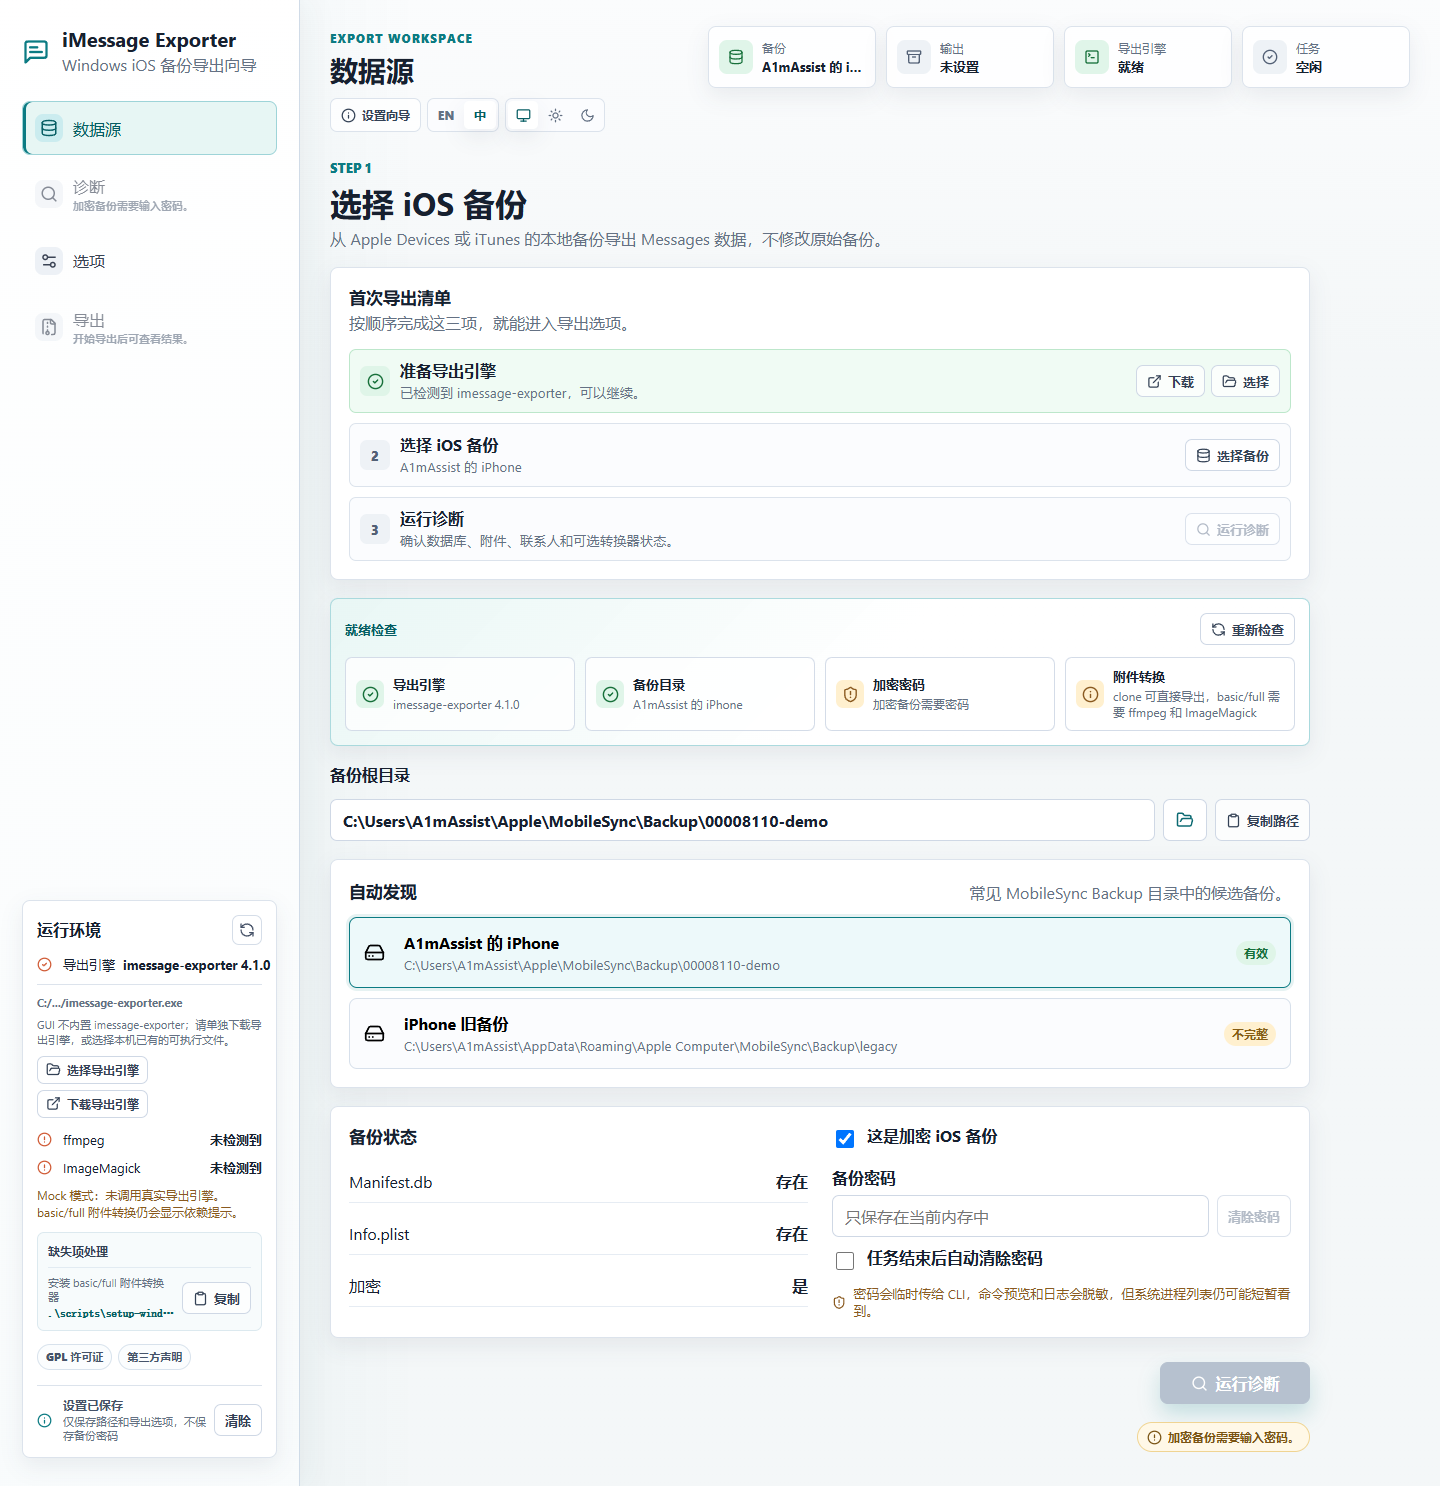
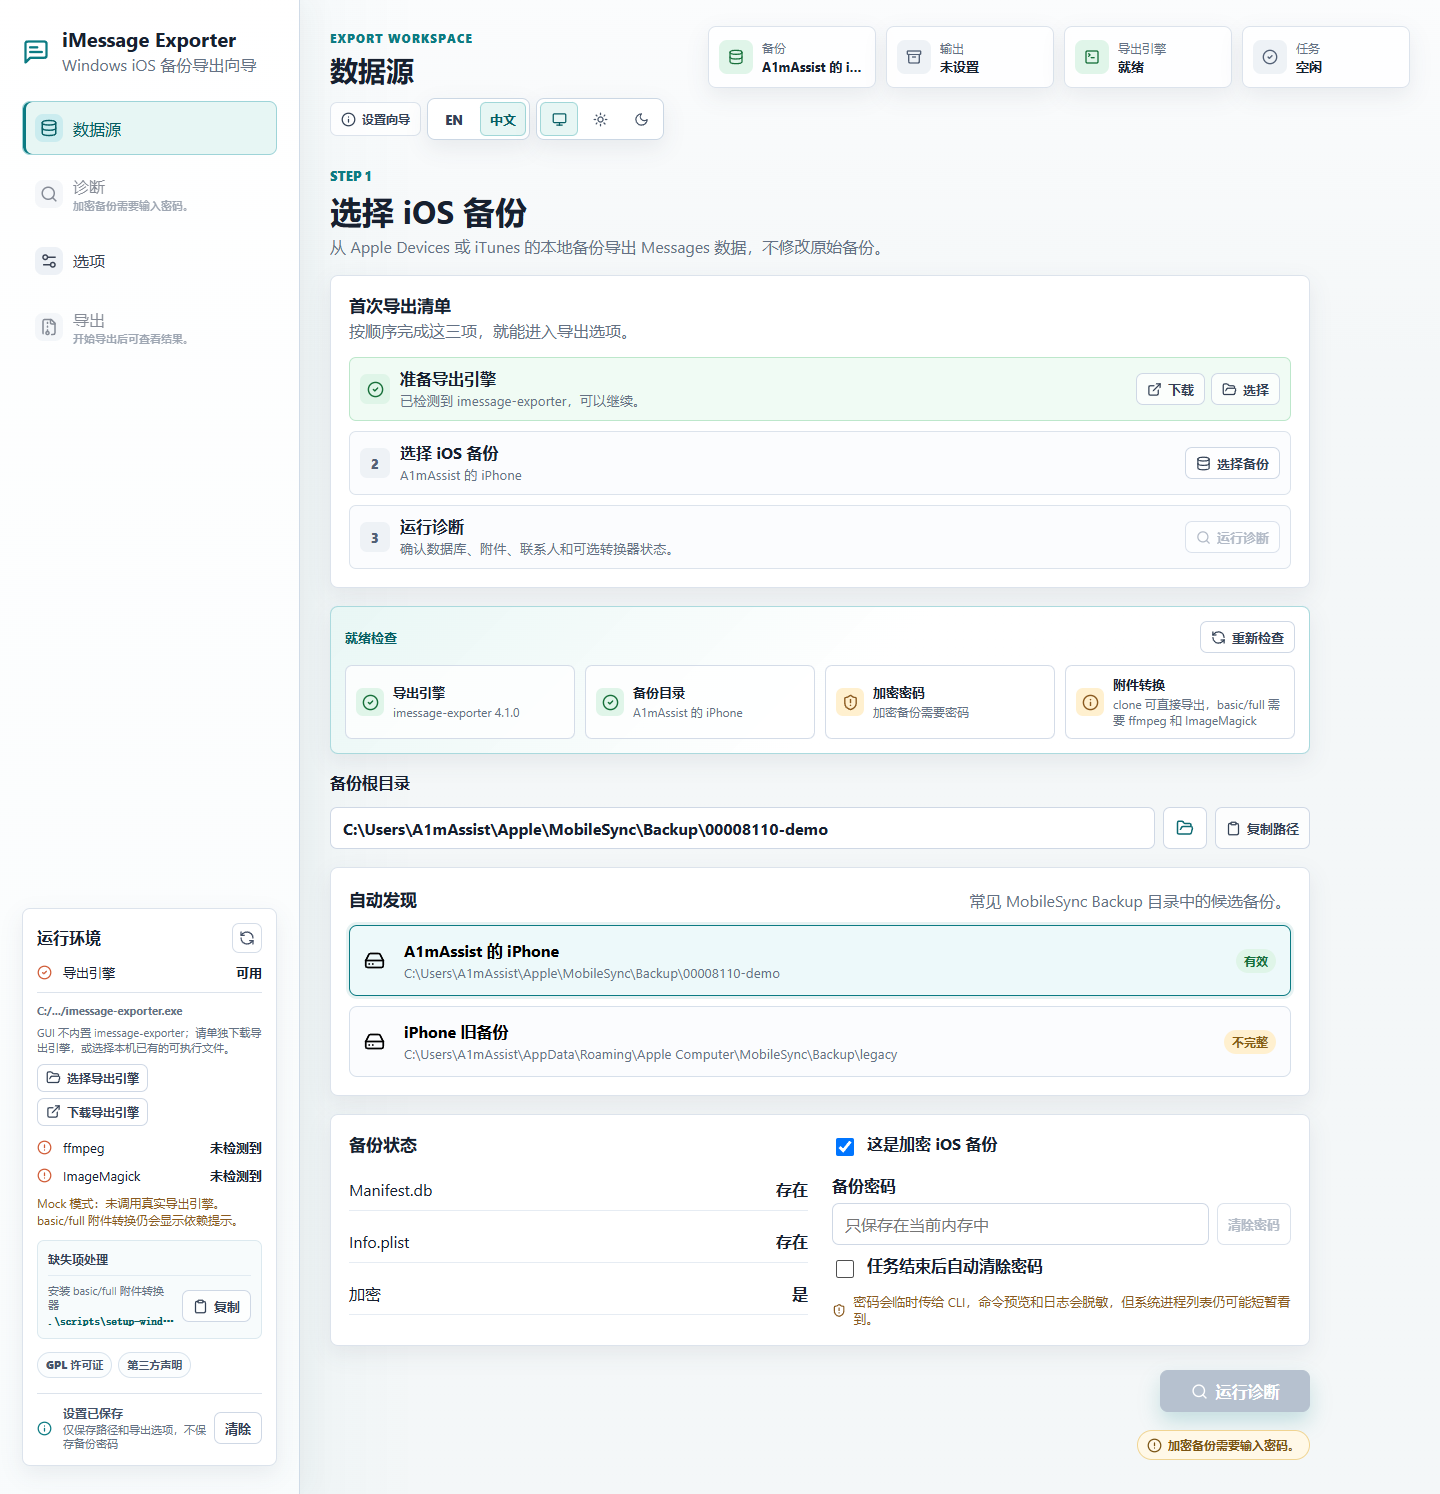
Polish English localization controls

diff --git a/src/i18n.ts b/src/i18n.ts
@@ -49,6 +49,19 @@ const en: Record<string, string> = {
   "未找到": "Not found",
   "可用": "Available",
   "未检测到": "Not detected",
+  "环境": "Environment",
+  "路径": "Path",
+  "名称": "Name",
+  "密码状态": "Password Status",
+  "未确认或缺失": "Not confirmed or missing",
+  "未输入": "Not entered",
+  "不适用": "Not applicable",
+  "已输入，未写入报告": "Entered, omitted from report",
+  "暂无日志": "No logs yet",
+  "iMessage Exporter GUI 诊断报告": "iMessage Exporter GUI Diagnostic Report",
+  "生成时间": "Generated At",
+  "脱敏命令": "Redacted Command",
+  "脱敏日志": "Redacted Logs",
   "Mock 模式：未调用真实导出引擎。basic/full 附件转换仍会显示依赖提示。": "Mock mode: no real export engine is called. basic/full attachment conversion still shows dependency hints.",
   "Mock 模式：模拟导出引擎缺失，诊断和导出会被禁用。": "Mock mode: simulating a missing export engine, so diagnostics and export are disabled.",
   "仅保存路径和导出选项，不保存备份密码": "Only paths and export options are saved. Backup passwords are never saved.",
@@ -140,6 +153,7 @@ const en: Record<string, string> = {
   "basic/full 可用": "basic/full available",
   "clone 可直接导出，basic/full 需要 ffmpeg 和 ImageMagick": "clone can export directly; basic/full require ffmpeg and ImageMagick",
   "启动就绪检查": "Startup readiness checks",
+  "首次导出路线": "First export path",
   "就绪检查": "Readiness Checks",
   "重新检查": "Check Again",
   "诊断备份": "Diagnose Backup",
@@ -153,6 +167,8 @@ const en: Record<string, string> = {
   "诊断结果": "Diagnostic Result",
   "已通过": "Passed",
   "需处理": "Needs action",
+  "联系人解析可用": "Contact parsing is available",
+  "缺少 ffmpeg / ImageMagick": "Missing ffmpeg / ImageMagick",
   "诊断已完成，但仍有项目需要处理。": "Diagnostics finished, but some items still need attention.",
   "运行诊断后会汇总检查结果。": "Run diagnostics to summarize the checks.",
   "完整": "Complete",
@@ -172,11 +188,23 @@ const en: Record<string, string> = {
   "选择输出格式、附件复制策略、日期范围和会话筛选。": "Choose output format, attachment copy strategy, date range, and conversation filters.",
   "预设": "Presets",
   "只调整格式、附件策略和打印模式，不改备份路径、输出目录或密码。": "Only changes format, attachment strategy, and print mode. Backup path, output folder, and password are kept.",
+  "快速归档": "Quick Archive",
+  "HTML + clone，保留附件引用，适合第一轮完整导出。": "HTML + clone, keeps attachment references, good for the first complete export.",
+  "轻量文本": "Text Lite",
+  "TXT + disabled，只导出文本，便于长期保存和搜索。": "TXT + disabled, exports text only for long-term storage and search.",
+  "打印准备": "Print Ready",
+  "HTML + clone + no-lazy，方便后续用浏览器打印为 PDF。": "HTML + clone + no-lazy, ready for printing to PDF in a browser.",
   "输出目录": "Output Folder",
   "新建归档目录": "New Archive Folder",
   "生成带时间戳的新文件夹，避免导出结果混入旧目录。": "Generate a timestamped folder so new exports do not mix with old files.",
   "格式": "Format",
   "Windows 第一版建议使用 clone；basic/full 依赖本机转换器。": "For the first Windows version, clone is recommended; basic/full depend on local converters.",
+  "保留更多富文本和附件引用，适合归档与打印。": "Preserves richer text and attachment references for archiving and printing.",
+  "纯文本输出，更轻量，适合检索和长期保存。": "Plain text output, lighter and easier to search or store long term.",
+  "不复制附件，导出最快，输出最轻。": "Does not copy attachments. Fastest export and smallest output.",
+  "复制原始附件，Windows 第一版推荐。": "Copies original attachments. Recommended for the first Windows release.",
+  "基础转换，需要 ffmpeg/ImageMagick。": "Basic conversion; requires ffmpeg/ImageMagick.",
+  "完整转换，需要 ffmpeg/ImageMagick，耗时更久。": "Full conversion; requires ffmpeg/ImageMagick and takes longer.",
   "开始日期": "Start Date",
   "结束日期": "End Date",
   "会话筛选": "Conversation Filter",
@@ -208,6 +236,9 @@ const en: Record<string, string> = {
   "上级目录不存在。": "The parent folder does not exist.",
   "目录当前不存在，导出前请确认路径可创建。": "The folder does not exist yet. Make sure it can be created before export.",
   "空文件夹，适合写入新的导出结果。": "Empty folder, suitable for a new export.",
+  "请选择导出输出目录。": "Choose the export output folder.",
+  "检测到疑似旧导出文件，建议选择一个新的空目录。": "Old export files were detected. Choose a new empty folder.",
+  "全部日期": "All dates",
   "导出与结果": "Export and Results",
   "实时查看 imessage-exporter 输出，导出完成后打开结果目录。": "Watch imessage-exporter output in real time, then open the result folder when export finishes.",
   "还没有开始导出": "Export has not started",
@@ -354,8 +385,23 @@ export function translateText(language: AppLanguage, text: string): string {
   const copiedFullPath = text.match(/^复制完整(.+): (.+)$/);
   if (copiedFullPath) return `Copy full ${translateText(language, copiedFullPath[1]).toLowerCase()}: ${copiedFullPath[2]}`;
 
+  const attachmentSummary = text.match(/^(.+) · 附件 (.+)$/);
+  if (attachmentSummary) return `${attachmentSummary[1]} · Attachments ${attachmentSummary[2]}`;
+
+  const copyLabel = text.match(/^复制(.+)$/);
+  if (copyLabel) return `Copy ${translateText(language, copyLabel[1])}`;
+
   const chooseLabel = text.match(/^选择(.+)$/);
   if (chooseLabel) return `Choose ${translateText(language, chooseLabel[1])}`;
+
+  const generatedAt = text.match(/^生成时间: (.+)$/);
+  if (generatedAt) return `Generated At: ${generatedAt[1]}`;
+
+  const reportField = text.match(/^- ([^:：]+): (.+)$/);
+  if (reportField) return `- ${translateText(language, reportField[1])}: ${translateText(language, reportField[2])}`;
+
+  const logLine = text.match(/^\[([^\]]+)\] (.+)$/);
+  if (logLine) return `[${logLine[1]}] ${translateText(language, logLine[2])}`;
 
   const items = text.match(/^已有 (.+) 个项目。继续导出前建议确认这些文件可以保留。$/);
   if (items) return `${items[1]} item(s) already exist. Confirm these files can stay before continuing.`;

diff --git a/src/styles.css b/src/styles.css
@@ -124,57 +124,59 @@ button:disabled {
 
 .language-toggle {
   display: inline-grid;
-  grid-template-columns: repeat(2, 32px);
-  gap: 2px;
-  padding: 2px;
-  border: 1px solid var(--line);
-  border-radius: 7px;
-  background: var(--surface-strong);
+  grid-template-columns: repeat(2, minmax(46px, auto));
+  gap: 3px;
+  padding: 3px;
+  border: 1px solid var(--line-strong);
+  border-radius: 8px;
+  background: rgba(255, 255, 255, 0.92);
+  box-shadow: var(--shadow-tight);
 }
 
 .language-toggle button {
-  min-height: 28px;
-  padding: 0;
+  min-height: 34px;
+  padding: 0 8px;
   border: 0;
-  border-radius: 5px;
+  border-radius: 6px;
   background: transparent;
-  color: var(--muted);
-  font-size: 12px;
-  font-weight: 800;
+  color: #334155;
+  font-size: 13px;
+  font-weight: 900;
 }
 
 .language-toggle button.selected {
-  background: var(--surface);
+  background: var(--accent-soft);
   color: var(--accent-ink);
-  box-shadow: var(--shadow-tight);
+  box-shadow: inset 0 0 0 1px rgba(13, 148, 154, 0.32);
 }
 
 .theme-toggle {
   display: inline-grid;
-  grid-template-columns: repeat(3, 30px);
-  gap: 2px;
-  padding: 2px;
-  border: 1px solid var(--line);
-  border-radius: 7px;
-  background: var(--surface-strong);
+  grid-template-columns: repeat(3, 38px);
+  gap: 3px;
+  padding: 3px;
+  border: 1px solid var(--line-strong);
+  border-radius: 8px;
+  background: rgba(255, 255, 255, 0.92);
+  box-shadow: var(--shadow-tight);
 }
 
 .theme-toggle button {
   display: inline-flex;
   align-items: center;
   justify-content: center;
-  min-height: 28px;
+  min-height: 34px;
   padding: 0;
   border: 0;
-  border-radius: 5px;
+  border-radius: 6px;
   background: transparent;
-  color: var(--muted);
+  color: #475569;
 }
 
 .theme-toggle button.selected {
-  background: var(--surface);
+  background: var(--accent-soft);
   color: var(--accent-ink);
-  box-shadow: var(--shadow-tight);
+  box-shadow: inset 0 0 0 1px rgba(13, 148, 154, 0.32);
 }
 
 .step-list {

diff --git a/src/App.tsx b/src/App.tsx
@@ -973,7 +973,7 @@ function LanguageToggle({ language, onChange }: { language: "en" | "zh-CN"; onCh
         EN
       </button>
       <button className={language === "zh-CN" ? "selected" : ""} type="button" onClick={() => onChange("zh-CN")} aria-label="中文" aria-pressed={language === "zh-CN"}>
-        中
+        中文
       </button>
     </div>
   );
@@ -1037,7 +1037,7 @@ function EnvironmentPanel({
           {loading ? <Loader2 className="spin" size={16} /> : <RefreshCcw size={16} />}
         </button>
       </div>
-      <StatusLine ok={environment?.exporterAvailable} label="导出引擎" value={environment?.exporterVersion ?? (environment?.exporterAvailable ? "可用" : "未找到")} />
+      <StatusLine ok={environment?.exporterAvailable} label="导出引擎" value={environment?.exporterAvailable ? "可用" : "未找到"} />
       <div className="engine-config">
         <small title={effectiveExporterPath || "未选择；会尝试从 PATH 检测"}>{effectiveExporterPath ? compactPath(effectiveExporterPath) : "未选择；会尝试从 PATH 检测"}</small>
         <p className="engine-help">GUI 不内置 imessage-exporter；请单独下载导出引擎，或选择本机已有的可执行文件。</p>

diff --git a/CHANGELOG.md b/CHANGELOG.md
@@ -1,5 +1,15 @@
 # Changelog
 
+## Unreleased
+
+### Changed
+- Made the language and theme controls larger and easier to notice in the top bar.
+- Simplified the Environment panel so the export engine row shows availability instead of the exporter version string.
+
+### Fixed
+- Completed English localization coverage for export presets, output folder warnings, diagnostic report text, and dynamic review labels.
+- Added smoke coverage that scans the English mock flow for untranslated Chinese text.
+
 ## v0.2.1 - 2026-06-13
 
 ### Added
